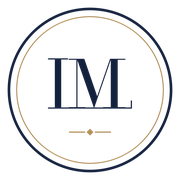
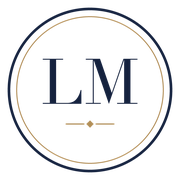
Retour au monogramme LM d'origine

Changed region(s): [[0.2222, 0.3056, 0.7778, 0.6111], [0.3611, 0.6667, 0.6389, 0.75]]

diff --git a/index.html b/index.html
@@ -11,8 +11,8 @@
   <link rel="preconnect" href="https://fonts.googleapis.com">
   <link rel="preconnect" href="https://fonts.gstatic.com" crossorigin>
   <link href="https://fonts.googleapis.com/css2?family=Cormorant+Garamond:wght@500;600;700&family=Inter:wght@400;500;600&display=swap" rel="stylesheet">
-  <link rel="icon" type="image/png" sizes="64x64" href="images/favicon-64.png?v=1792937682">
-  <link rel="apple-touch-icon" href="images/apple-touch-icon.png?v=1792937682">
+  <link rel="icon" type="image/png" sizes="64x64" href="images/favicon-64.png?v=1792937744">
+  <link rel="apple-touch-icon" href="images/apple-touch-icon.png?v=1792937744">
   <link rel="stylesheet" href="style.css?v=1792937337">
   <script type="application/ld+json">
   {
@@ -35,7 +35,7 @@
 <body>
   <header class="site-header">
     <div class="wrap bar">
-      <a href="#accueil" class="brand"><img class="brand-logo" src="images/logo-icone.png?v=1792937682" alt="" width="44" height="44"><div>Loïck Merle <span>Avocat à la Cour</span></div></a>
+      <a href="#accueil" class="brand"><img class="brand-logo" src="images/logo-icone.png?v=1792937744" alt="" width="44" height="44"><div>Loïck Merle <span>Avocat à la Cour</span></div></a>
       <button class="burger" aria-label="Ouvrir le menu" aria-expanded="false" aria-controls="nav">☰</button>
       <nav id="nav" aria-label="Navigation principale">
         <a href="#apropos">Présentation</a>

diff --git a/application-des-peines.html b/application-des-peines.html
@@ -11,14 +11,14 @@
   <link rel="preconnect" href="https://fonts.googleapis.com">
   <link rel="preconnect" href="https://fonts.gstatic.com" crossorigin>
   <link href="https://fonts.googleapis.com/css2?family=Cormorant+Garamond:wght@500;600;700&family=Inter:wght@400;500;600&display=swap" rel="stylesheet">
-  <link rel="icon" type="image/png" sizes="64x64" href="images/favicon-64.png?v=1792937682">
-  <link rel="apple-touch-icon" href="images/apple-touch-icon.png?v=1792937682">
+  <link rel="icon" type="image/png" sizes="64x64" href="images/favicon-64.png?v=1792937744">
+  <link rel="apple-touch-icon" href="images/apple-touch-icon.png?v=1792937744">
   <link rel="stylesheet" href="style.css?v=1792574516">
 </head>
 <body>
   <header class="site-header">
     <div class="wrap bar">
-      <a href="index.html" class="brand"><img class="brand-logo" src="images/logo-icone.png?v=1792937682" alt="" width="44" height="44"><div>Loïck Merle <span>Avocat à la Cour</span></div></a>
+      <a href="index.html" class="brand"><img class="brand-logo" src="images/logo-icone.png?v=1792937744" alt="" width="44" height="44"><div>Loïck Merle <span>Avocat à la Cour</span></div></a>
       <button class="burger" aria-label="Ouvrir le menu" aria-expanded="false" aria-controls="nav">☰</button>
       <nav id="nav" aria-label="Navigation principale">
         <a href="index.html#apropos">Présentation</a>

diff --git a/audition-libre.html b/audition-libre.html
@@ -11,14 +11,14 @@
   <link rel="preconnect" href="https://fonts.googleapis.com">
   <link rel="preconnect" href="https://fonts.gstatic.com" crossorigin>
   <link href="https://fonts.googleapis.com/css2?family=Cormorant+Garamond:wght@500;600;700&family=Inter:wght@400;500;600&display=swap" rel="stylesheet">
-  <link rel="icon" type="image/png" sizes="64x64" href="images/favicon-64.png?v=1792937682">
-  <link rel="apple-touch-icon" href="images/apple-touch-icon.png?v=1792937682">
+  <link rel="icon" type="image/png" sizes="64x64" href="images/favicon-64.png?v=1792937744">
+  <link rel="apple-touch-icon" href="images/apple-touch-icon.png?v=1792937744">
   <link rel="stylesheet" href="style.css?v=1792574516">
 </head>
 <body>
   <header class="site-header">
     <div class="wrap bar">
-      <a href="index.html" class="brand"><img class="brand-logo" src="images/logo-icone.png?v=1792937682" alt="" width="44" height="44"><div>Loïck Merle <span>Avocat à la Cour</span></div></a>
+      <a href="index.html" class="brand"><img class="brand-logo" src="images/logo-icone.png?v=1792937744" alt="" width="44" height="44"><div>Loïck Merle <span>Avocat à la Cour</span></div></a>
       <button class="burger" aria-label="Ouvrir le menu" aria-expanded="false" aria-controls="nav">☰</button>
       <nav id="nav" aria-label="Navigation principale">
         <a href="index.html#apropos">Présentation</a>

diff --git a/comparution-immediate.html b/comparution-immediate.html
@@ -11,14 +11,14 @@
   <link rel="preconnect" href="https://fonts.googleapis.com">
   <link rel="preconnect" href="https://fonts.gstatic.com" crossorigin>
   <link href="https://fonts.googleapis.com/css2?family=Cormorant+Garamond:wght@500;600;700&family=Inter:wght@400;500;600&display=swap" rel="stylesheet">
-  <link rel="icon" type="image/png" sizes="64x64" href="images/favicon-64.png?v=1792937682">
-  <link rel="apple-touch-icon" href="images/apple-touch-icon.png?v=1792937682">
+  <link rel="icon" type="image/png" sizes="64x64" href="images/favicon-64.png?v=1792937744">
+  <link rel="apple-touch-icon" href="images/apple-touch-icon.png?v=1792937744">
   <link rel="stylesheet" href="style.css?v=1792574516">
 </head>
 <body>
   <header class="site-header">
     <div class="wrap bar">
-      <a href="index.html" class="brand"><img class="brand-logo" src="images/logo-icone.png?v=1792937682" alt="" width="44" height="44"><div>Loïck Merle <span>Avocat à la Cour</span></div></a>
+      <a href="index.html" class="brand"><img class="brand-logo" src="images/logo-icone.png?v=1792937744" alt="" width="44" height="44"><div>Loïck Merle <span>Avocat à la Cour</span></div></a>
       <button class="burger" aria-label="Ouvrir le menu" aria-expanded="false" aria-controls="nav">☰</button>
       <nav id="nav" aria-label="Navigation principale">
         <a href="index.html#apropos">Présentation</a>

diff --git a/crpc-plaider-coupable.html b/crpc-plaider-coupable.html
@@ -11,14 +11,14 @@
   <link rel="preconnect" href="https://fonts.googleapis.com">
   <link rel="preconnect" href="https://fonts.gstatic.com" crossorigin>
   <link href="https://fonts.googleapis.com/css2?family=Cormorant+Garamond:wght@500;600;700&family=Inter:wght@400;500;600&display=swap" rel="stylesheet">
-  <link rel="icon" type="image/png" sizes="64x64" href="images/favicon-64.png?v=1792937682">
-  <link rel="apple-touch-icon" href="images/apple-touch-icon.png?v=1792937682">
+  <link rel="icon" type="image/png" sizes="64x64" href="images/favicon-64.png?v=1792937744">
+  <link rel="apple-touch-icon" href="images/apple-touch-icon.png?v=1792937744">
   <link rel="stylesheet" href="style.css?v=1792574516">
 </head>
 <body>
   <header class="site-header">
     <div class="wrap bar">
-      <a href="index.html" class="brand"><img class="brand-logo" src="images/logo-icone.png?v=1792937682" alt="" width="44" height="44"><div>Loïck Merle <span>Avocat à la Cour</span></div></a>
+      <a href="index.html" class="brand"><img class="brand-logo" src="images/logo-icone.png?v=1792937744" alt="" width="44" height="44"><div>Loïck Merle <span>Avocat à la Cour</span></div></a>
       <button class="burger" aria-label="Ouvrir le menu" aria-expanded="false" aria-controls="nav">☰</button>
       <nav id="nav" aria-label="Navigation principale">
         <a href="index.html#apropos">Présentation</a>

diff --git a/detention-provisoire.html b/detention-provisoire.html
@@ -11,14 +11,14 @@
   <link rel="preconnect" href="https://fonts.googleapis.com">
   <link rel="preconnect" href="https://fonts.gstatic.com" crossorigin>
   <link href="https://fonts.googleapis.com/css2?family=Cormorant+Garamond:wght@500;600;700&family=Inter:wght@400;500;600&display=swap" rel="stylesheet">
-  <link rel="icon" type="image/png" sizes="64x64" href="images/favicon-64.png?v=1792937682">
-  <link rel="apple-touch-icon" href="images/apple-touch-icon.png?v=1792937682">
+  <link rel="icon" type="image/png" sizes="64x64" href="images/favicon-64.png?v=1792937744">
+  <link rel="apple-touch-icon" href="images/apple-touch-icon.png?v=1792937744">
   <link rel="stylesheet" href="style.css?v=1792574516">
 </head>
 <body>
   <header class="site-header">
     <div class="wrap bar">
-      <a href="index.html" class="brand"><img class="brand-logo" src="images/logo-icone.png?v=1792937682" alt="" width="44" height="44"><div>Loïck Merle <span>Avocat à la Cour</span></div></a>
+      <a href="index.html" class="brand"><img class="brand-logo" src="images/logo-icone.png?v=1792937744" alt="" width="44" height="44"><div>Loïck Merle <span>Avocat à la Cour</span></div></a>
       <button class="burger" aria-label="Ouvrir le menu" aria-expanded="false" aria-controls="nav">☰</button>
       <nav id="nav" aria-label="Navigation principale">
         <a href="index.html#apropos">Présentation</a>

diff --git a/garde-a-vue.html b/garde-a-vue.html
@@ -11,14 +11,14 @@
   <link rel="preconnect" href="https://fonts.googleapis.com">
   <link rel="preconnect" href="https://fonts.gstatic.com" crossorigin>
   <link href="https://fonts.googleapis.com/css2?family=Cormorant+Garamond:wght@500;600;700&family=Inter:wght@400;500;600&display=swap" rel="stylesheet">
-  <link rel="icon" type="image/png" sizes="64x64" href="images/favicon-64.png?v=1792937682">
-  <link rel="apple-touch-icon" href="images/apple-touch-icon.png?v=1792937682">
+  <link rel="icon" type="image/png" sizes="64x64" href="images/favicon-64.png?v=1792937744">
+  <link rel="apple-touch-icon" href="images/apple-touch-icon.png?v=1792937744">
   <link rel="stylesheet" href="style.css?v=1792574516">
 </head>
 <body>
   <header class="site-header">
     <div class="wrap bar">
-      <a href="index.html" class="brand"><img class="brand-logo" src="images/logo-icone.png?v=1792937682" alt="" width="44" height="44"><div>Loïck Merle <span>Avocat à la Cour</span></div></a>
+      <a href="index.html" class="brand"><img class="brand-logo" src="images/logo-icone.png?v=1792937744" alt="" width="44" height="44"><div>Loïck Merle <span>Avocat à la Cour</span></div></a>
       <button class="burger" aria-label="Ouvrir le menu" aria-expanded="false" aria-controls="nav">☰</button>
       <nav id="nav" aria-label="Navigation principale">
         <a href="index.html#apropos">Présentation</a>

diff --git a/mentions-legales.html b/mentions-legales.html
@@ -8,14 +8,14 @@
   <link rel="preconnect" href="https://fonts.googleapis.com">
   <link rel="preconnect" href="https://fonts.gstatic.com" crossorigin>
   <link href="https://fonts.googleapis.com/css2?family=Cormorant+Garamond:wght@500;600;700&family=Inter:wght@400;500;600&display=swap" rel="stylesheet">
-  <link rel="icon" type="image/png" sizes="64x64" href="images/favicon-64.png?v=1792937682">
-  <link rel="apple-touch-icon" href="images/apple-touch-icon.png?v=1792937682">
+  <link rel="icon" type="image/png" sizes="64x64" href="images/favicon-64.png?v=1792937744">
+  <link rel="apple-touch-icon" href="images/apple-touch-icon.png?v=1792937744">
   <link rel="stylesheet" href="style.css?v=1792937337">
 </head>
 <body>
   <header class="site-header">
     <div class="wrap bar">
-      <a href="index.html" class="brand"><img class="brand-logo" src="images/logo-icone.png?v=1792937682" alt="" width="44" height="44"><div>Loïck Merle <span>Avocat à la Cour</span></div></a>
+      <a href="index.html" class="brand"><img class="brand-logo" src="images/logo-icone.png?v=1792937744" alt="" width="44" height="44"><div>Loïck Merle <span>Avocat à la Cour</span></div></a>
       <nav><a href="index.html">← Retour au site</a></nav>
     </div>
   </header>
